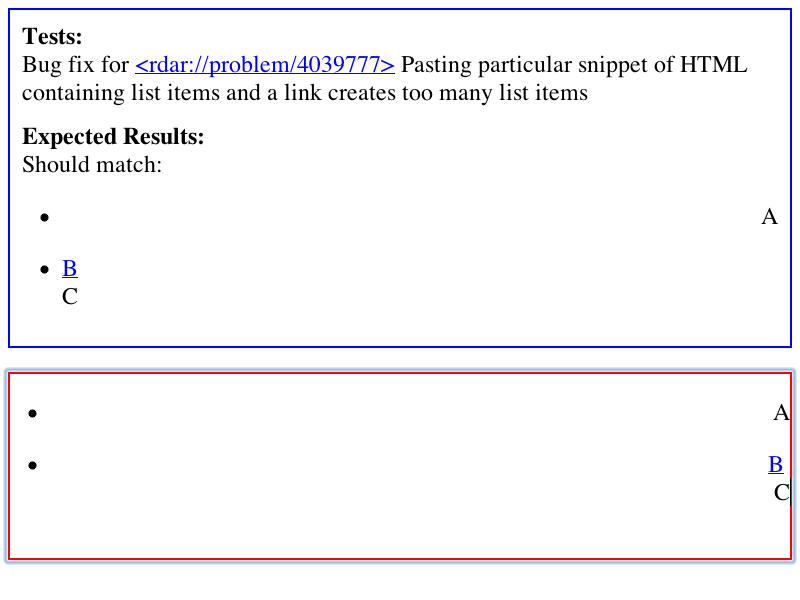
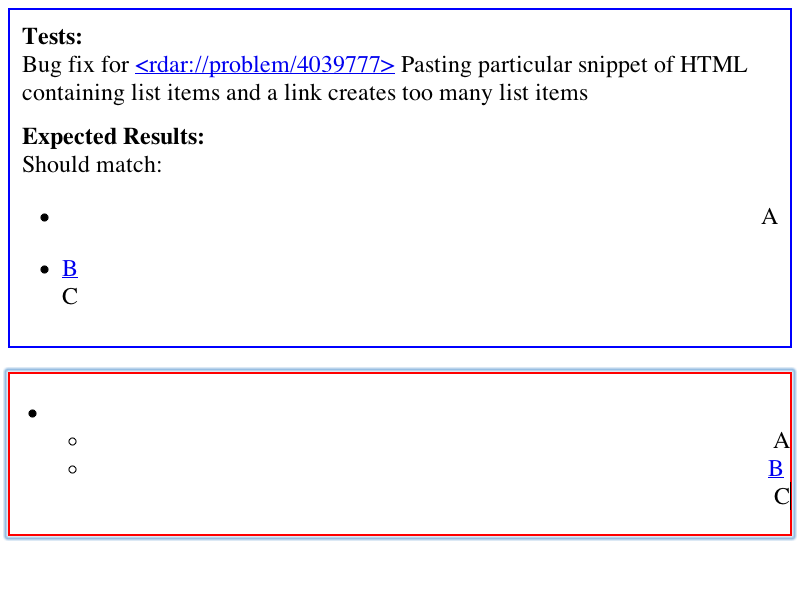
LayoutTests:
Reviewed by darin
        
        <rdar://problem/4875189> List gets deleted when replacing contents

        Replacing the contents of a list:
        * editing/inserting/4875189-1-expected.checksum: Added.
        * editing/inserting/4875189-1-expected.png: Added.
        * editing/inserting/4875189-1-expected.txt: Added.
        * editing/inserting/4875189-1.html: Added.
        Of a floating div:
        * editing/inserting/4875189-2-expected.checksum: Added.
        * editing/inserting/4875189-2-expected.png: Added.
        * editing/inserting/4875189-2-expected.txt: Added.
        * editing/inserting/4875189-2.html: Added.
        Pasting a list on top of itself now creates a nested list:
        * editing/pasteboard/paste-4039777-fix-expected.checksum:
        * editing/pasteboard/paste-4039777-fix-expected.png:
        * editing/pasteboard/paste-4039777-fix-expected.txt:

WebCore:

        Reviewed by darin

        <rdar://problem/4875189> List gets deleted when replacing contents

        * editing/ReplaceSelectionCommand.cpp:
        (WebCore::ReplaceSelectionCommand::doApply): Don't expand
        to include elements, like lists, when deleting a selection 
        to replace it.

git-svn-id: http://svn.webkit.org/repository/webkit/trunk/LayoutTests@21197 268f45cc-cd09-0410-ab3c-d52691b4dbfc

diff --git a/editing/inserting/4875189-2.html b/editing/inserting/4875189-2.html
@@ -1,0 +1,12 @@
+<p>This tests for a bug when replacing the contents of a floating element.  Just its contents should be removed during the replace.</p>
+<div contenteditable="true">This shouldn't be in the bordered div.<div id="div" style="float:left; border: 1px solid blue;">You shouldn't see this.</div></div>
+
+<script>
+var r = document.createRange();
+var div = document.getElementById("div");
+r.setStart(div, 0);
+r.setEnd(div, div.childNodes.length);
+var selection = window.getSelection();
+selection.addRange(r);
+document.execCommand("InsertHTML", false, "This should be in a floating blue bordered div.")
+</script>

diff --git a/editing/inserting/4875189-1.html b/editing/inserting/4875189-1.html
@@ -1,0 +1,12 @@
+<p>This tests for a bug when replacing the contents of a list.  The list shouldn't be removed, just its contents.</p>
+<div contenteditable="true"><ul><li id="li">You shouldn't see this.</li></ul></div>
+
+<script>
+var r = document.createRange();
+var li = document.getElementById("li");
+r.setStart(li, 0);
+r.setEnd(li, li.childNodes.length);
+var selection = window.getSelection();
+selection.addRange(r);
+document.execCommand("InsertHTML", false, "This should be in a list item.")
+</script>
